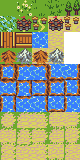
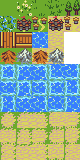
Bridges. Tile graphic tweaks.

Changed region(s): [[0.0, 0.375, 1.0, 0.7188], [0.0, 0.0938, 0.2, 0.2188]]

diff --git a/js/osrpgmg.js b/js/osrpgmg.js
@@ -78,14 +78,14 @@ function osrpgmg_init() {
 		'town_grass' : 'town',
 		'castle_sand' : 'castle',
 		'town_sand' : 'town',
-		'bridge_up_down' : 'bridge',
-		'bridge_left_right' : 'bridge',
+		'bridge_up_down' : 'water',
+		'bridge_left_right' : 'water',
 		'water_0000' : 'water',
 		'sand_0000' : 'sand',
-		'hill_grass' : 'hill',
-		'mountain_grass' : 'mountain',
-		'hill_sand' : 'hill',
-		'mountain_sand' : 'mountain',
+		'hill_grass' : 'grass',
+		'mountain_grass' : 'grass',
+		'hill_sand' : 'sand',
+		'mountain_sand' : 'sand',
 		'water_1111' : 'water',
 		'water_1001' : 'water',
 		'water_1100' : 'water',
@@ -124,6 +124,8 @@ function osrpgmg_init() {
 
 	var visible_map = get_visible_map(height_map);
 
+	do_transition_graphics();
+
 	// Load tiles image
 	var tile_img = new Image();
 	tile_img.onload = function() {
@@ -155,6 +157,59 @@ function osrpgmg_init() {
 	                T_SIZE, // target width
 	                T_SIZE // target height
 	            );
+	        }
+	    }
+	}
+
+	function do_transition_graphics() {
+
+	    for (var r = 0; r < ROWS; r++) {
+			for (var c = 0; c < COLS; c++) {
+
+				var pos = c + (r * COLS);
+
+	            var tile = get_tile(visible_map, c, r);
+	            var new_tile = tile;
+
+            	var directions = [
+            		tile_type[tile_by_num[visible_map[get_neighbor(pos, 'up')]]],
+            		tile_type[tile_by_num[visible_map[get_neighbor(pos, 'right')]]],
+            		tile_type[tile_by_num[visible_map[get_neighbor(pos, 'down')]]],
+            		tile_type[tile_by_num[visible_map[get_neighbor(pos, 'left')]]]
+            	];
+
+	            if(tile_by_num[tile] == 'sand_0000') {
+
+	            	var substr = '';
+
+	            	for(var i = 0; i < directions.length; i++) {
+
+	            		if(directions[i] == 'sand' || directions[i] == 'water') {
+	            			substr = substr + '0';
+		            	} else {
+		            		substr = substr + '1';
+		            	}
+	            	}
+
+	            	new_tile = tiles['sand_'+substr];
+	            } 
+	            else if(tile_by_num[tile] == 'water_0000') {
+
+	            	var substr = '';
+
+	            	for(var i = 0; i < directions.length; i++) {
+
+	            		if(directions[i] == 'water') {
+	            			substr = substr + '0';
+		            	} else {
+		            		substr = substr + '1';
+		            	}
+	            	}
+
+	            	new_tile = tiles['water_'+substr];
+	            }
+
+	            visible_map[pos] = new_tile;
 	        }
 	    }
 	}
@@ -205,14 +260,6 @@ function osrpgmg_init() {
 	            );
 	        }
 	    }
-	}
-
-	function grass_map() {
-		var arr = [];
-		for(i = 0; i < COLS * ROWS; i++) {
-			arr.push( tiles['water_0000'] );
-		}
-		return arr;
 	}
 
 	function get_visible_map(height_map) {
@@ -534,6 +581,59 @@ function osrpgmg_init() {
 				}
 
 				flow_count++;
+			}
+		}
+
+		// Bridges
+
+		var valid_bridge_positions = [];
+
+		for(var i = 0; i < river_map_all.length; i++) {
+
+			if(river_map_all[i] == 99) {
+
+				var directions = {
+					'up' : get_neighbor(i, 'up'),
+					'down' : get_neighbor(i, 'down'),
+					'left' : get_neighbor(i, 'left'),
+					'right' : get_neighbor(i, 'right')
+				};
+
+				if( ( river_map_all[directions['up']] == 0 && tile_type[tile_by_num[map[directions['up']]]] != 'water' && river_map_all[directions['down']] == 0 && tile_type[tile_by_num[map[directions['down']]]] != 'water' ) ||
+					( river_map_all[directions['left']] == 0 && tile_type[tile_by_num[map[directions['left']]]] != 'water' && river_map_all[directions['right']] == 0 && tile_type[tile_by_num[map[directions['right']]]] != 'water' )
+				) {
+					valid_bridge_positions.push(i);
+				}
+			}
+		}
+
+		console.log(valid_bridge_positions);
+		console.log(river_start_num);
+
+		for(var i = 0; i < river_start_num; i++) {
+
+			var rand_pos = valid_bridge_positions[Math.floor(Math.random() * valid_bridge_positions.length)];
+
+			// Make sure now bridges adjacent
+			var dir = {
+				'up'    : get_neighbor(rand_pos, 'up'),
+				'down'  : get_neighbor(rand_pos, 'down'),
+				'left'  : get_neighbor(rand_pos, 'left'),
+				'right' : get_neighbor(rand_pos, 'right')
+			};
+
+			if(map[dir['up']] == tiles['bridge_up_down'] || map[dir['up']] == tiles['bridge_left_right'] ||
+				map[dir['down']] == tiles['bridge_up_down'] || map[dir['down']] == tiles['bridge_left_right'] ||
+				map[dir['left']] == tiles['bridge_up_down'] || map[dir['left']] == tiles['bridge_left_right'] ||
+				map[dir['right']] == tiles['bridge_up_down'] || map[dir['right']] == tiles['bridge_left_right']
+			) {
+				continue;
+			}
+
+			if( river_map_all[dir['up']] == 0 ) {
+				map[rand_pos] = tiles['bridge_up_down'];
+			} else {
+				map[rand_pos] = tiles['bridge_left_right'];
 			}
 		}
 
